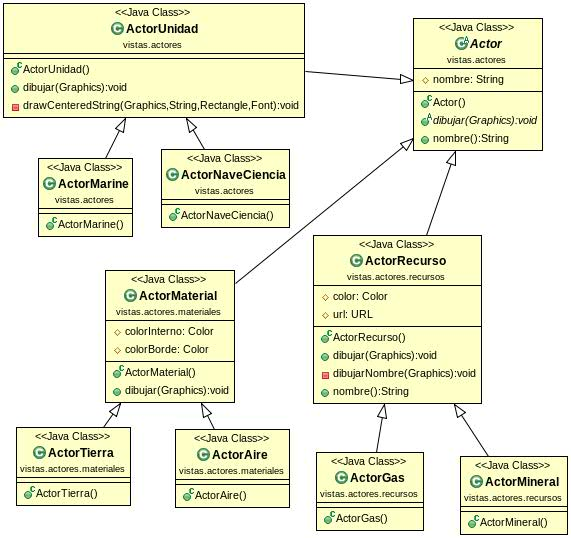
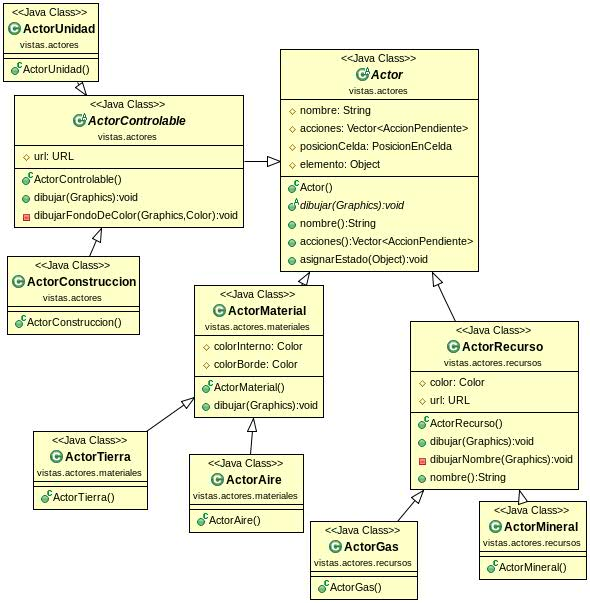
diagramas y serialize

diff --git a/src/vistas/actores/ActorUnidad.java b/src/vistas/actores/ActorUnidad.java
@@ -16,25 +16,5 @@ public class ActorUnidad extends ActorControlable {
 		this.acciones.add(new AccionMover());
 		this.acciones.add(new AccionAtacar());
 	}
-	
-	/**
-	 * Draw a String centered in the middle of a Rectangle.
-	 *
-	 * @param g The Graphics instance.
-	 * @param text The String to draw.
-	 * @param rect The Rectangle to center the text in.
-	 */
-	public void drawCenteredString(Graphics g, String text, Rectangle rect, Font font) {
-	    // Get the FontMetrics
-	    FontMetrics metrics = g.getFontMetrics(font);
-	    // Determine the X coordinate for the text
-	    int x = (rect.width - metrics.stringWidth(text)) / 2;
-	    // Determine the Y coordinate for the text
-	    int y = ((rect.y - metrics.getHeight()) / 2) + metrics.getAscent();
-	    // Set the font
-	    g.setFont(font);
-	    // Draw the String
-	    g.drawString(text, x, y);
-	}
 
 }

diff --git a/src/vistas/ventanas/VentanaJuego.java b/src/vistas/ventanas/VentanaJuego.java
@@ -31,10 +31,6 @@ import vistas.paneles.secundarios.juego.PanelMapa;
 import vistas.utilidades.ScalablePane;
 
 public class VentanaJuego extends JFrame implements ObservadorCelda {
-	/**
-	 * 
-	 */
-	private static final long serialVersionUID = -6641141523429026335L;
 	
 	private Vector<Jugador> jugadores;
 	private PanelMapa panelMapa;

diff --git a/src/vistas/ventanas/VentanaMenu.java b/src/vistas/ventanas/VentanaMenu.java
@@ -12,11 +12,6 @@ import javax.swing.WindowConstants;
 import vistas.utilidades.ScalablePane;
 
 public class VentanaMenu extends JFrame {
-	/**
-	 * 
-	 */
-	private static final long serialVersionUID = -6641141523429026335L;
-
 	public VentanaMenu() {
 		this.setDefaultCloseOperation(WindowConstants.EXIT_ON_CLOSE);
 		

diff --git a/src/vistas/paneles/principales/PanelJugadores.java b/src/vistas/paneles/principales/PanelJugadores.java
@@ -17,10 +17,6 @@ import vistas.paneles.secundarios.SeleccionJugador;
 
 public class PanelJugadores extends MenuPanel {
 	
-	/**
-	 * 
-	 */
-	private static final long serialVersionUID = 2318162583471014637L;
 	private SeleccionJugador seleccionJugador1;
 	private SeleccionJugador seleccionJugador2;
 	

diff --git a/src/vistas/paneles/principales/PanelInicio.java b/src/vistas/paneles/principales/PanelInicio.java
@@ -15,10 +15,6 @@ import vistas.acciones.CerrarVentana;
 import vistas.acciones.SiguientePanel;
 
 public class PanelInicio extends MenuPanel {
-	/**
-	 * 
-	 */
-	private static final long serialVersionUID = -9124649702460822042L;
 
 	public PanelInicio(JPanel panelBase) {
 		super(panelBase);

diff --git a/src/vistas/mapa/VistaCelda.java b/src/vistas/mapa/VistaCelda.java
@@ -28,10 +28,6 @@ import juego.recursos.Recurso;
 
 public class VistaCelda extends JComponent {
 
-	/**
-	 * 
-	 */
-	private static final long serialVersionUID = -4451841605373415808L;
 	public static final int lado = 60;
 	private boolean seleccionada;
 	private boolean visible;

diff --git a/src/vistas/paneles/principales/MenuPanel.java b/src/vistas/paneles/principales/MenuPanel.java
@@ -9,10 +9,6 @@ import javax.swing.JPanel;
 
 public class MenuPanel extends JPanel {
 	
-	/**
-	 * 
-	 */
-	private static final long serialVersionUID = -8704463347288341430L;
 	protected JPanel panelBase;
 	
 	public MenuPanel(JPanel panelBase) {
